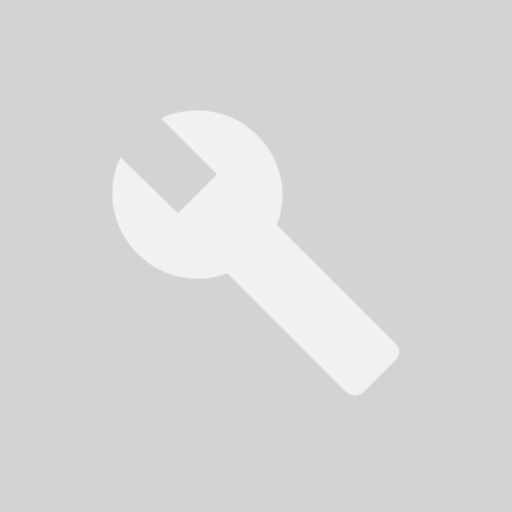
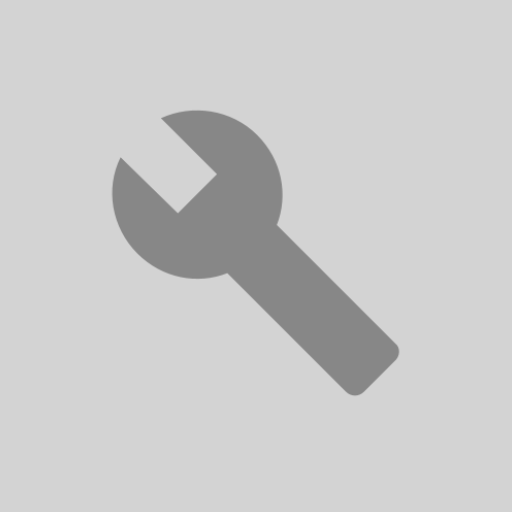
Fixed app design of images in android app

Changed region(s): [[0.2188, 0.1875, 0.7812, 0.7812]]

diff --git a/BeagleAndroidApp/app/src/main/java/br/com/ztx/beagle_1/beagle/AppDesignSystem.kt b/BeagleAndroidApp/app/src/main/java/br/com/ztx/beagle_1/beagle/AppDesignSystem.kt
@@ -3,7 +3,6 @@ package br.com.ztx.beagle_1.beagle
 import br.com.ztx.beagle_1.R
 import br.com.ztx.beagle_1.beagle.AppDesignSystem.Style.BTN_BLACK
 import br.com.ztx.beagle_1.beagle.AppDesignSystem.Style.BTN_ORANGE
-import br.com.ztx.beagle_1.beagle.AppDesignSystem.Style.IMG_INIT
 import br.com.ztx.beagle_1.beagle.AppDesignSystem.Style.IMG_SCREEN_INFO_1
 import br.com.ztx.beagle_1.beagle.AppDesignSystem.Style.IMG_SCREEN_INFO_2
 import br.com.ztx.beagle_1.beagle.AppDesignSystem.Style.TXT_BOLD
@@ -38,8 +37,8 @@ class AppDesignSystem : DesignSystem {
 
     override fun image(name: String): Int {
         return when (name) {
-            IMG_SCREEN_INFO_1 -> R.mipmap.ic_screen_info_1_round
-            IMG_SCREEN_INFO_2 -> R.mipmap.ic_screen_info_2_round
+            IMG_SCREEN_INFO_1 -> R.drawable.ic_screen_info_1_foreground
+            IMG_SCREEN_INFO_2 -> R.drawable.ic_screen_info_2_foreground
             else -> android.R.drawable.ic_menu_help
         }
     }

diff --git a/BeagleAndroidApp/app/src/main/java/br/com/ztx/beagle_1/components/views/CustomScreen.kt b/BeagleAndroidApp/app/src/main/java/br/com/ztx/beagle_1/components/views/CustomScreen.kt
@@ -28,7 +28,7 @@ class CustomScreen(val context: Context, val title: String, val subtitle: String
             child = Container(
                 children = listOf(
                     Image(
-                        name = AppDesignSystem.Style.IMG_INIT
+                        name = AppDesignSystem.Style.IMG_SCREEN_INFO_1
                     ).applyFlex(
                         Flex(
                             size = Size(
